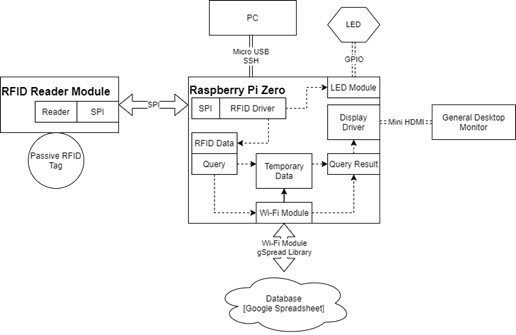
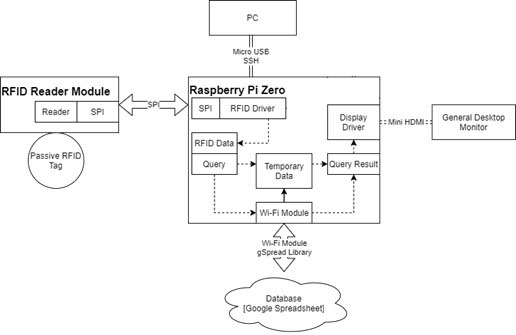
ekuekyugbkuubrae

diff --git a/main_gui.py b/main_gui.py
@@ -54,16 +54,7 @@ session_item_name = session_sheet.col_values(5) #get borrowed items
 
 # RFID Setup
 reader = SimpleMFRC522()
-
-# LED GPIO Setup
-GPIO.setup(12, GPIO.OUT)
-
-def flash_led():
-    GPIO.output(12, GPIO.HIGH)
-    time.sleep(0.5)
-    GPIO.output(12, GPIO.LOW)
-
-
+reader.READER.Write_MFRC522(reader.READER.RFCfgReg, (0x07 << 4))
 
 #TKINTER MAIN CLASS, MANAGES EVERYTHING
 class GUI:
@@ -182,6 +173,7 @@ class GUI:
         self.logout_button['state']=tkinter.DISABLED
         self.set_info_message("Updating data, please wait!")
         ThreadedTaskUpdateData(self.update_data_functions).start()
+
 
     def update_data_functions(self):
         mahasiswa_sheet = sh.worksheet("Mahasiswa")
@@ -308,7 +300,6 @@ class GUI:
                         #Print Message (List style)
                         self.list_message['text'] += "- " + name_item + " has been added\n" 
                         self.clear_info_message()
-                        flash_led()
 
                 else: # not available
                     self.set_info_message("Item "+name_item+ " is not available!")
@@ -341,7 +332,6 @@ class GUI:
                     session_sheet.append_rows(self.sessions)
 
                     self.message['text'] ="Welcome, "+self.USER_NAME+" !"
-                    self.enable_buttons() #enable buttons
                     self.update_data() #update data
                     self.sub_message.configure(text="Borrow success!")
                     self.list_message.configure(text="")
